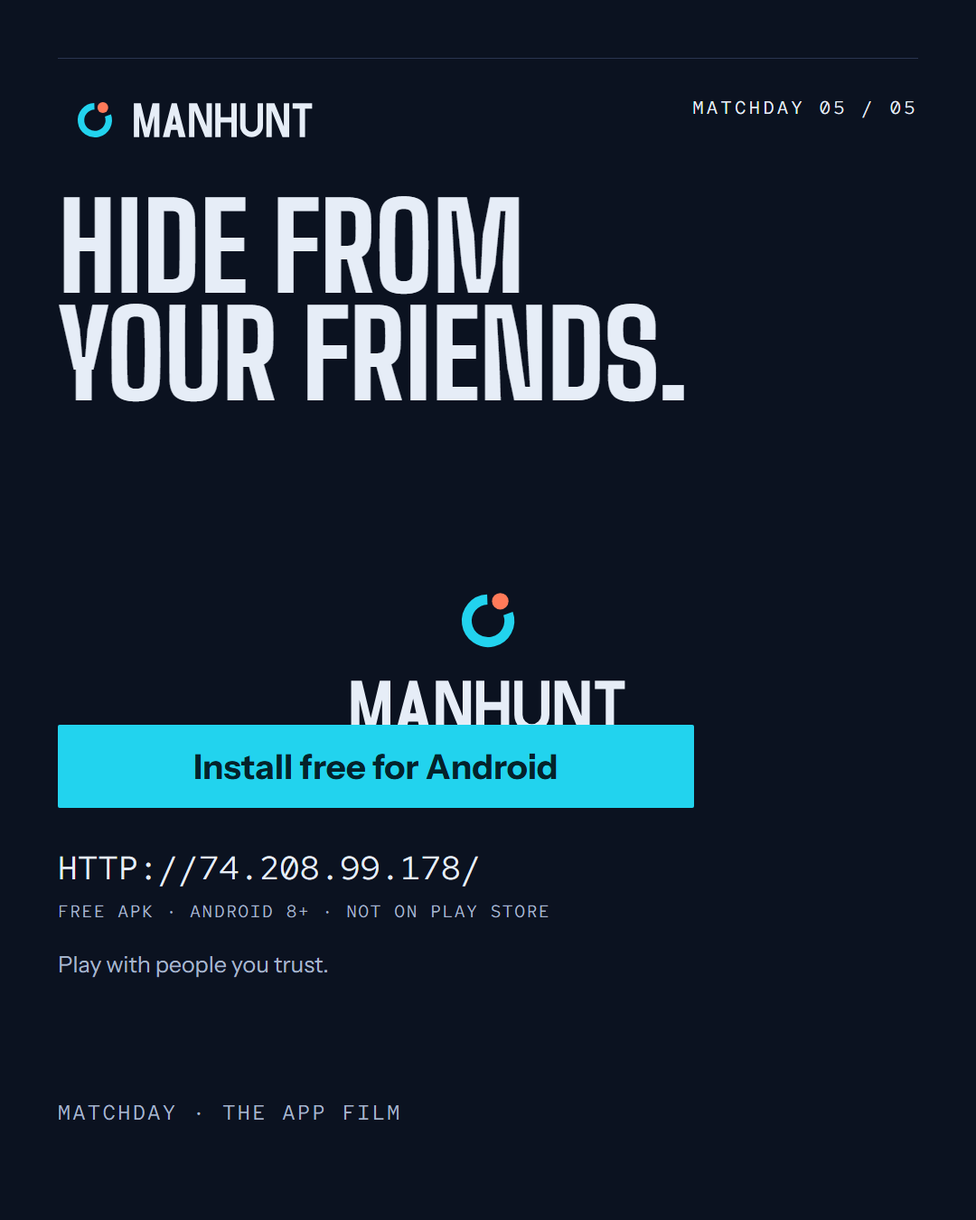
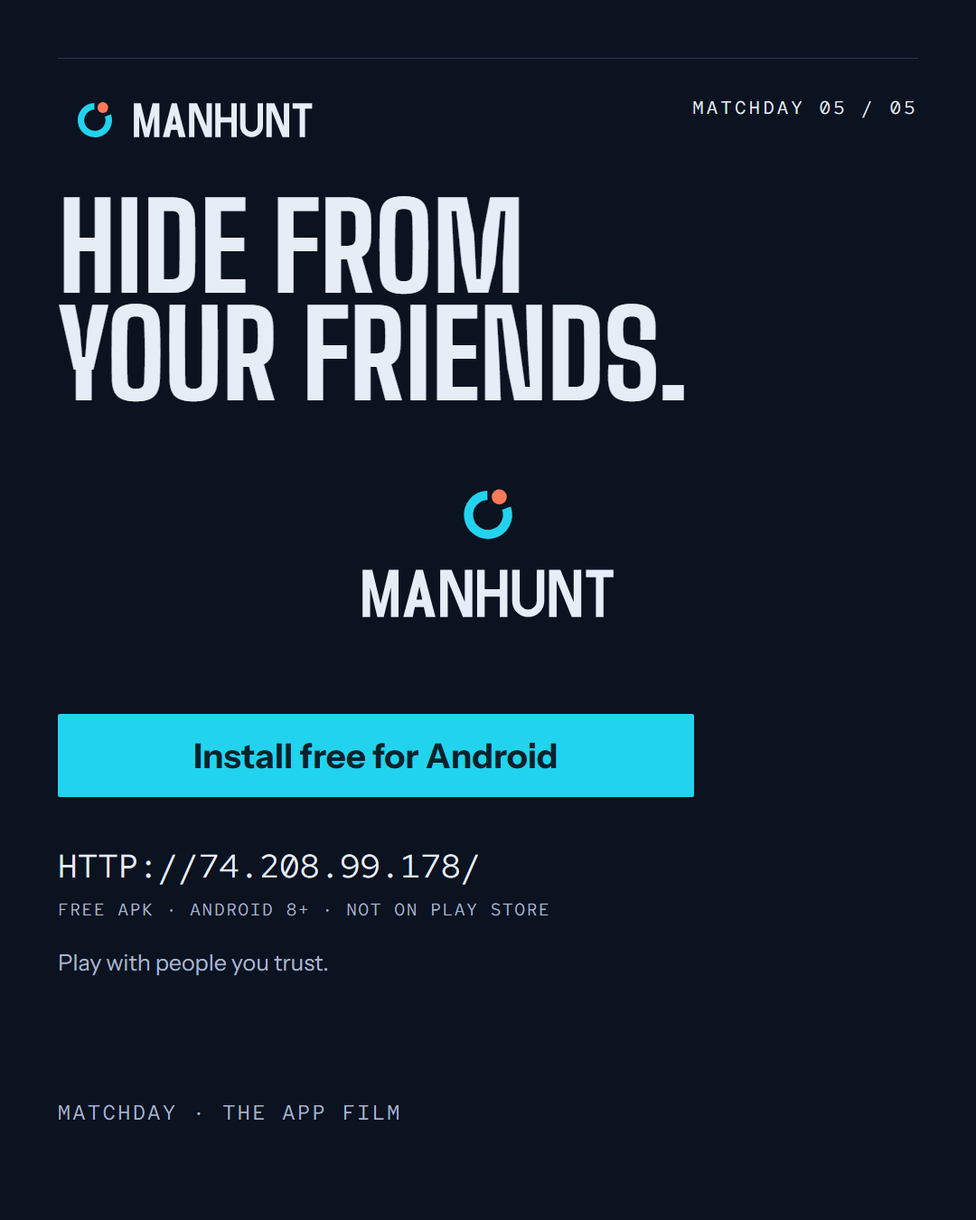
fix(social/site): final composition and evidence cleanup
- Fix carousel end lockup/CTA collision and duplicate-score result feed; check all panels.
- Align README APK size with the site (about 2.3 MB) and keep verifier green.
- Commit refreshed v0.16.1 site QA evidence.
- Final re-audit notes: app/site/GitHub/brand meet the bar; social defects closed.

diff --git a/design/social/matchday/src/statics.css b/design/social/matchday/src/statics.css
@@ -1,4 +1,4 @@
-/* ManHunt MATCHDAY static pack — flat fills, hairlines, no gradients, no shadows. */
+/* ManHunt MATCHDAY static pack — flat fills, hairlines, no gradients, no shadows. */
 @font-face{font-family:"Big Shoulders";src:url("../assets/fonts/BigShoulders-Bold.ttf") format("truetype");font-weight:700;font-display:block}
 @font-face{font-family:"Instrument Sans";src:url("../assets/fonts/InstrumentSans-Regular.ttf") format("truetype");font-weight:400;font-display:block}
 @font-face{font-family:"Instrument Sans";src:url("../assets/fonts/InstrumentSans-Bold.ttf") format("truetype");font-weight:700;font-display:block}
@@ -47,10 +47,10 @@ body{font-family:"Instrument Sans",system-ui,sans-serif;-webkit-font-smoothing:a
 .flowrule{position:absolute;left:64px;top:536px;width:952px}
 .mappanel{left:64px;top:588px;width:952px;height:300px}
 #f1map{object-position:50% 63%}
-.resultline{position:absolute;left:64px;top:222px;font-size:180px;line-height:.86}
-#l-feed1x1b .sub{left:64px;top:424px}
-.resultpanel{left:64px;top:504px;width:952px;height:380px}
-#f2result{object-position:50% 26%}
+.resultline{position:absolute;left:64px;top:214px;font-size:176px;line-height:.86}
+#l-feed1x1b .sub{left:64px;top:404px}
+.boardpanel{left:64px;top:478px;width:952px;height:330px}
+#f2board{object-position:50% 6%}
 
 /* 4:5 portrait */
 #l-portrait4x5{width:1080px;height:1350px}
@@ -105,12 +105,12 @@ body{font-family:"Instrument Sans",system-ui,sans-serif;-webkit-font-smoothing:a
 .cchip{position:absolute;left:64px;top:640px;height:78px;width:952px;display:flex;align-items:center;gap:24px;padding:0 28px;background:var(--field);border-bottom:1px solid var(--hairline)}
 .cchip .display{font-size:46px}
 .cchip .mono{font-size:18px}
-#l-carousel .ctabig{top:802px;bottom:auto}
-#l-carousel .url{top:936px;bottom:auto;font-size:36px}
-#l-carousel .micro{top:996px;bottom:auto;font-size:19px;left:64px}
-#l-carousel .trust{top:1052px;bottom:auto;font-size:25px;left:64px}
+#l-carousel .ctabig{top:790px;bottom:auto}
+#l-carousel .url{top:934px;bottom:auto;font-size:36px}
+#l-carousel .micro{top:994px;bottom:auto;font-size:19px;left:64px}
+#l-carousel .trust{top:1050px;bottom:auto;font-size:25px;left:64px}
 #l-carousel .rule.bottom{bottom:56px}
-.c-endlock{width:360px;left:50%;top:624px;transform:translateX(-50%)}
+.c-endlock{width:330px;left:50%;top:512px;transform:translateX(-50%)}
 
 /* cover */
 #l-cover{width:1080px;height:1920px}

diff --git a/design/social/matchday/src/statics.html b/design/social/matchday/src/statics.html
@@ -30,15 +30,15 @@
     <div class="url mono">http://74.208.99.178/</div>
   </section>
 
-  <!-- ── 1:1 FEED · result ──────────────────────────────────────────────── -->
+  <!-- ── 1:1 FEED · result (board-only composition: one statement) ──────── -->
   <section class="layout" id="l-feed1x1b" data-w="1080" data-h="1080">
     <div class="rule top"></div>
     <img class="lockup lk-h sm" src="../assets/lockup/lockup-horizontal-light-on-dark.svg" alt="ManHunt">
-    <div class="tag mono">FULL TIME · 18:48 PLAYED</div>
+    <div class="tag mono">MATCHDAY · 2026</div>
     <h1 class="display resultline">HUNTERS WIN.</h1>
     <div class="sub mono">PREY REMAINING 0 / 2 · CAPTURED MATCH</div>
-    <div class="panel resultpanel">
-      <div class="panelimg"><img id="f2result" src="../assets/screens/s12-result-hunters.png" alt="Real ManHunt result capture"></div>
+    <div class="panel boardpanel">
+      <div class="panelimg"><img id="f2board" src="../assets/screens/s12-result-hunters.png" alt="Real ManHunt full-time board, real app capture"></div>
     </div>
     <div class="foot mono">FREE APK · ANDROID 8+ · NOT ON PLAY STORE</div>
     <div class="url mono">http://74.208.99.178/</div>

diff --git a/design/github-redesign/preview/readme-preview.html b/design/github-redesign/preview/readme-preview.html
@@ -202,7 +202,7 @@
   <h2 id="get-on-the-field">Get on the field</h2>
   <div class="pass">
     <p class="big">Free, signed APK. No account email. Not on Google Play.</p>
-    <p class="data">Android 8.0+ · about 2.4 MB · latest version, size and SHA-256 on the install page</p>
+    <p class="data">Android 8.0+ · about 2.3 MB · latest version, size and SHA-256 on the install page</p>
     <p><strong><a href="http://74.208.99.178/">Download the free APK</a></strong></p>
     <ol>
       <li><strong>Download the APK</strong> on the Android phone you will play on.</li>

diff --git a/design/audits/final-matchday-audit.md b/design/audits/final-matchday-audit.md
@@ -3,6 +3,8 @@
 Independent adversarial audit of the v0.16.0 "MATCHDAY BOARD" sprint. Read-only: no code/assets changed; this document plus `design/audits/evidence/` are the only additions.
 Date: 2026-11-02 · Repo: `C:\dev\ManHunt` @ `1a2c441` (master, working tree had only in-flight `design/social/matchday/`) · Live: http://74.208.99.178/
 
+> **Re-audit banner (task-60, 2026-11-02 post-cleanup):** the findings below are the first-pass audit; every blocker was re-tested after cleanup — see **“Re-audit — 2026-11-02 (post-cleanup, task-60)”** at the end of this document. Current status: **app captures, live site, GitHub README and brand assets MEET THE BAR; the whole sprint still NEEDS ANOTHER PASS for the social pack only (two composition defects) plus one APK-size copy nit.** All eight original blockers B1–B8 are resolved on the app/site/GitHub surfaces.
+
 **Verdict: NEEDS ANOTHER PASS.** The design direction is genuinely premium and internally consistent, the app captures are real (no mockups), the live site is current, the README is pushed and its assets resolve, and the APK hash claim verifies byte-for-byte. But the "final" evidence set ships a handful of visible defects and one factually wrong product claim: a dev server URL in the flagship auth frame, a visually broken slider in the Settings frame, a clipped expanded sheet, cross-surface clock/code/size drift (41:14 vs 41:12, WNWHA3 vs VMJYBU, 2.2 MB vs 2.48 MB), and "Prey never see the map" — which the app (and the sprint's own prey-view capture S08) contradicts. The new social pack is still landing (only 7 test stills exist) and the committed site QA captures are a release behind the live site. None of these are design-direction problems; they are a focused cleanup + a small reshoot before the sprint can be called complete.
 
 ---
@@ -119,3 +121,76 @@ Committed captures in `design/site-redesign/shots/final/` show **v0.15.1 / 2.1 M
 ## Verdict
 
 **NEEDS ANOTHER PASS — narrow and mechanical, not a redesign.** The MATCHDAY direction itself clears the bar: app screens, site, README and social previews now look like one premium product with a distinct voice (condensed boards, mono data, cyan field, honest sideload story), and the hard, unsexy parts — real device capture, deterministic data, checksummed manifest, served site with correct headers, verified APK hash, pushed README — are done properly. What keeps this from being a final matchday set is execution hygiene at the edges: one banned dev URL, one broken control, one clipped frame, a handful of numbers that disagree between surfaces, a product claim that is simply false, a social pack still rendering, and site evidence one release old. Fix B1–B8 (plus B4's asset regeneration), re-shoot S01/S14/S10 (and ideally S06 alignment + S12 full result), refresh the site evidence set at v0.16.0, land and QA the social reel, then this audit flips to **meets the bar**. I would not hand the current captures/site to a press or partner reviewer yet; I would happily hand them over after that pass.
+
+---
+
+# Re-audit — 2026-11-02 (post-cleanup, task-60)
+
+Second pass after the cleanup sprint (app v0.16.1, commits `08b2ff0` → `83bd4e0`, master pushed). Same method as the first pass; every claim below was re-checked on the current tree, the live server, GitHub, and the regenerated artefact set.
+
+## Verdict (re-audit)
+
+**App captures, live site, GitHub README, brand assets: MEETS THE BAR.**
+**Whole sprint: NEEDS ANOTHER PASS — but this time it is one small, well-defined surface: the new social pack has two visible composition defects, and one APK-size fact still disagrees between README and site.** No previously reported blocker survives on the app/site/GitHub surfaces. If the social pack is held from publication pending owner copy approval (its own COPY-STATUS says it must be), the app/site/README sprint deliverables are signable now.
+
+## B1–B8 status (re-verified)
+
+| Blocker | Status | Evidence |
+|---|---|---|
+| B1 dev URL in S01 | **RESOLVED (by removal)** | `s01-auth.png` gone from `docs/screenshots/premium/`; `MANIFEST.json` `rejected[]` lists it with the exact reason ("manhunt.lvh.me … removed, not substituted"); the only remaining mention of the host in owned docs is that honest rejection note. No re-shot auth frame. |
+| B2 broken settings slider | **RESOLVED in code; frame removed** | v0.16.1 commit `08b2ff0` adds `ui/BoardInputs.kt` `BoardScaleSlider` (single track / one thumb) + `BoardScaleSliderTest.kt`; `SettingsScreen.kt` switched to it; CHANGELOG 0.16.1: "one coherent MATCHDAY slider (single track, one thumb…)". `s14-settings.png` removed, not replaced. |
+| B3 clipped expanded sheet | **RESOLVED in code; frame removed** | `08b2ff0` adds the navigation-bar inset to the expanded hunt sheet (`RoomScreen.kt`, `navigationBarsPadding()` inside the scroll) + CHANGELOG entry; `s10-hunt-sheet.png` removed. |
+| B4 cross-surface facts | **MOSTLY RESOLVED — one residual** | README no longer contains `41:14`, `WNWHA3` or `2.2 MB`; README now reads 41:12 (`README.md:3,58`), VMJYBU (`:58`), "about 2.4 MB" (`:100`). Hero asset regenerated: `docs/brand/matchday-hero-1280x560.png` now shows board **HUNTING 41:12** (verified visually; file hash changed). Live site: 41:12 ×3, VMJYBU, no 41:14. **Residual:** live site + refreshed site evidence print **2.3 MB** (actual APK 2,460,570 B = 2.35 MiB) while README says "about 2.4 MB" → pick one rounding. |
+| B5 false "Prey never see the map" | **RESOLVED** | README now: "Prey see the field, the zone and their own position, never another player's" (`README.md:21`); live site field deck: "Prey see the field and their own position — never another player's."; FAQ: "Prey never see another player's position." Zero occurrences of "never see the map" across README/docs/site. |
+| B6 social pack not landed | **PARTIALLY RESOLVED — landed but not clean** | `design/social/matchday/out/` now contains 15s/30s MP4+WebM, 6s GIF, reel frames, poster, cover, 5-carousel, story (9:16 + end card), 1:1 feed + result feed, QA frames (`out/qa/`), audio scores, contact sheet, `COPY-STATUS.txt`. Real premium captures, OSM credit on map frames, HUNTING/CAPTURED MATCH wording present, no fake claims. **Two visible composition defects remain** (R1/R2) and copy is explicitly "PROVISIONAL — owner approval pending; do not publish". |
+| B7 site QA evidence stale | **RESOLVED** | `design/site-redesign/shots/final/report.json` regenerated 2026-11-02T05:38:49Z; refreshed `mobile-390-viewport.png` shows **v0.16.1 / 2.3 MB** matching live; `report.json` now reports `horizontalOverflow:false`, `blankImages:0`, `smallImages:0` for desktop/tablet/mobile (the previous tablet 3 px text overflow and mobile decorative-SVG flags are gone). Live site itself: v0.16.1, `Content-Type: text/html; charset=utf-8`, CSP / X-Frame-Options / Referrer-Policy intact. |
+| B8 S13 result / MANIFEST contradiction | **RESOLVED** | `MANIFEST.json` now: S13 "Prey win, full time with both Prey alive — honest 2/2 score (no fabricated survivor count)", `dataGaps` notes the earlier "one prey survived" phrasing was wrong and removed. Consistent with the captured screen. |
+
+## What was re-verified as clean
+
+- **Premium set integrity:** 11 captured frames + 7 harvest crops; all SHA-256s re-computed → 0 mismatches. Contact sheet regenerated, shows only the 11 clean frames. `rejected[]` (3 frames with reasons) and `pending[]` (5 frames) are honest; no old-UI substitution. No dev URL, clipped sheet or broken slider remains in the published set.
+- **README/GitHub:** local README blob (`git hash-object`) equals the GitHub contents API blob for `master`; remote `master` = local HEAD `83bd4e0`; latest release `v0.16.1` ships `manhunt-v0.16.1.apk` (2,460,570 B) + `.sha256`. README references only surviving frames (`s03, s05, s07, s12, s08, s09, s11, s15`); removed frames are unreferenced. Alt text now uses canonical 41:12/VMJYBU.
+- **Live site / APK:** v0.16.1, versionCode 44, 2,460,570 B; `/app.apk` downloaded and SHA-256 re-computed = `0596bee7…b56e114de`, exactly the API/page claim. No old slogan, placeholders, dev URLs or mojibake in served HTML.
+- **App v0.16.1:** `versionName 0.16.1` / `versionCode 44`; slider + hunt-sheet inset fixes and their JVM test committed; CHANGELOG entries present. (No new device captures of Settings — the screen is absent from the premium set rather than shown fixed.)
+
+## Remaining issues in the re-audit
+
+**Still blockers (narrow — social publication only)**
+- **R1 — `design/social/matchday/out/manhunt_matchday_carousel-5-end.png`:** the cyan "Install free for Android" button is laid on top of the MANHUNT wordmark — the lower third of the logotype is visibly occluded; the card reads as a z-order/layout collision.
+- **R2 — `design/social/matchday/out/manhunt_matchday_feed-1x1-result.png`:** the result content is duplicated — outer board "HUNTERS WIN. / PREY REMAINING 0 / 2 · CAPTURED MATCH", then a framed inner app capture repeating "Hunters win. / Prey remaining: 0 / 2", cropped mid-radar (only a thin arc of the plate is visible). It reads as a double scoreboard with a bad crop; re-crop the result capture (or drop the inner window) so the card has one clear statement.
+- **R3 (nit) — APK size:** README "about 2.4 MB" vs site/evidence "2.3 MB" (actual 2,460,570 B). Align README to the site formatter or drop the hard number.
+
+**Polish (previously reported; still visible in the 11 surviving frames — frames are unchanged)**
+- **R4 — Status bar shows 3G** on all remaining premium frames while shotlist §0 rule 3 requires "Wi-Fi only, full"; `MANIFEST.statusBar` still documents "clean cellular signal". Re-capture with the demo Wi-Fi state or amend the spec/manifest so the set is internally truthful.
+- **R5 — Clock contradiction in-frame:** masthead live clock 21:05/21:10 vs frozen status-bar 21:04 (visible in S03/S04/S15); hurts the set's own "time progresses plausibly" bar.
+- **R6 — S06 team-selector plates still vertically misaligned** (2 Prey vs 3 Hunters columns) with dead space under the Prey column.
+- **R7 — Hero-map clarity:** no marker legend (coral fresh / white stale) on S07, site hero or social map frames — only alt text explains it.
+- **R8 — Design-system drift inside frames:** hunt dock/sheet pills ("Tag prey", "Hide trails", "View hunt history") vs rectangular Board buttons elsewhere; S07 rounded sheet vs S08/S09 square sheets. S11 still top-anchored (~28 % void); S12/S13 results still lack the spec's final team sheets/honest summary/trail plate.
+- **R9 — Coverage gap after rejection:** premium set no longer evidences Auth (first screen), expanded hunt sheet, or Settings. v0.16.1 makes S14 re-shootable, and S01 needs only a collapsed/public server row — worth re-capturing if the set is used as a press kit; MANIFEST is honest about the omission either way.
+- **R10 — GitHub custom social preview still unset:** `og:image` is GitHub's generated `opengraph.githubassets.com` card, not `docs/brand/github-social-matchday-1280x640.png` (repo-settings upload only; can't be fixed in a commit).
+- **R11 — `docs/brand/README.md` still mixes v1 assets** (`readme-hero.gif`, old `github-social-1280x640.png`, old identity/banner contact sheets) with MATCHDAY v2 without a legacy marker; copy still labelled "provisional pending final sign-off". The site footer links to this page.
+- **R12 — site mobile nit:** hero meta still wraps with a leading separator ("… Android 8.0+ / | Not on Play Store"); homepage stat "9 accounts started" is honest but weak social proof for launch.
+
+## Re-audit surface scores
+
+| Surface | Before | Now | Note |
+|---|---|---|---|
+| Premium app captures | 3/5 | **4/5** | Clean contracted set, honest manifest, hashes verify; loses a point for residual spec deviations (3G/clock) and lost auth/settings coverage. |
+| Live game site | 4/5 | **5/5** | v0.16.1, accurate copy, current evidence, verified APK SHA, good headers; only mobile-meta nits remain. |
+| GitHub README / repo | 3/5 | **4/5** | Canonical facts fixed, synced with GitHub, assets resolve, release v0.16.1; untouched OG card + size nit. |
+| Brand assets | 3/5 | **4/5** | Hero rebuilt to 41:12, map band and tags intact; legacy v1 assets still mixed into `docs/brand/README.md`. |
+| Social MATCHDAY pack | 2/5 (not landed) | **3/5** | Now landed, full format set, on-brand, real captures, no fake claims — but two visible composition defects and provisional copy block publication. |
+| Spec vs captures | 3/5 | **3/5** | Rejections handled honestly; residual 3G/clock/S12-scope deviations persist in unchanged frames. |
+| Cross-surface coherence | 3/5 | **4/5** | 41:12 / VMJYBU / visibility copy now agree everywhere; only APK size rounding disagrees. |
+| Honesty & trust | 3/5 | **5/5** | Rejected frames documented with reasons, S13 corrected, site/FAQ/README accurate, provisional social copy disclosed, SHA verified. |
+
+**Weighted overall: 4/5 — the redesign now reads as premium and coherent across app, site, GitHub and brand. One publishable surface (the social pack) still has two visible composition bugs and one copy number (APK size) needs to agree; after those, this sprint is done.**
+
+## Exact re-audit evidence (re-runnable)
+
+- Premium: `docs/screenshots/premium/{MANIFEST.json,contact-sheet.png,s03,s04,s05,s06,s07,s08,s09,s11,s12,s13,s15}`; all SHA-256s re-computed 2026-11-02 (~06:15Z) → 11/11 images + 7/7 crops OK.
[1 lines of base64/hex data omitted]
+- GitHub: `git ls-remote origin master` = local HEAD `83bd4e0`; contents API README blob `b755e055…` = local `git hash-object README.md`; release `v0.16.1` assets = APK + sha256.
+- Site evidence: `design/site-redesign/shots/final/report.json` generatedAt `2026-11-02T05:38:49Z`, desktop/tablet/mobile all `overflow:false / blanks:0 / small:0`; refreshed `mobile-390-viewport.png` shows v0.16.1 · 2.3 MB.
+- App fixes: `git show 08b2ff0` (`BoardInputs.kt`, `BoardScaleSliderTest.kt`, `RoomScreen.kt` navigationBarsPadding, `SettingsScreen.kt`); CHANGELOG `[0.16.1]`.
+- Social: `design/social/matchday/out/` (reels/carousel/story/feed/QA/contact sheet/`COPY-STATUS.txt`), reviewed contact sheet + cover, carousel 04-hunt and 05-end, feed result, reel30 frame.

diff --git a/design/site-redesign/refs/rendered/qa-report.md b/design/site-redesign/refs/rendered/qa-report.md
@@ -1,56 +1,59 @@
-# ManHunt site — QA evidence (task-57 refresh)
+# ManHunt site — QA evidence (task-61 refresh, live v0.16.1)
 
-**Captured:** 2026-11-02T05:38:49Z · against the current **v0.16.0** manifest
-(`versionName 0.16.0`, size **2.4 MB**, published **2026-11-02**, SHA-256
[1 lines of base64/hex data omitted]
-**Target:** the page served by the repo's own Fastify server on an isolated port
-(`127.0.0.1:8095`, temp DB; production untouched), i.e. the current page content — not the old
-v0.15.1 capture set.
+**Captured:** 2026-11-02T06:13:06Z (UTC) · **target:** the live install page at
+**http://74.208.99.178/** — the current production content, **v0.16.1** (manifest `versionCode 44`,
+APK **2,460,570 B**, published **2026-11-02T06:10:25Z**, SHA-256
[1 lines of base64/hex data omitted]
+
+The page renders that manifest dynamically: **v0.16.1 · 2.3 MB · 2026-11-02**, hash `0596bee7…114de`,
+and “This server http://74.208.99.178”. (The page formats the APK with one binary-decimal digit:
+2,460,570 B / 1,048,576 = 2.35 → **2.3 MB**; no code change, this is the existing `formatBytes`
+contract.)
 
 ## Method
 
-`node design/site-redesign/tools/capture.mjs --url http://127.0.0.1:8095/ --out design/site-redesign/shots/final`
+`node design/site-redesign/tools/capture.mjs --url http://74.208.99.178/ --out design/site-redesign/shots/final`
 
-Real headless Chrome via the DevTools Protocol (no Puppeteer, no mockups): true mobile emulation for
-390 (Android UA + touch + DPR 2), 820 tablet and 1440 desktop viewports. The harness writes viewport
+Real headless Chrome via the DevTools Protocol (no Puppeteer, no mockups, no compositing): desktop
+1440×900 (DPR 1), tablet 820×1180 (DPR 1), mobile 390×844 with **true device emulation** (Android UA +
+touch + DPR 2), plus 320×700 and `prefers-reduced-motion: reduce` runs. The harness writes viewport
 PNGs, full-page PNGs, half-scale overviews, per-section PNGs (`data-shot`) and `report.json` with
 overflow/blank-image/console/network diagnostics.
 
-## Result — v0.16.0 page
+## Result — live v0.16.1 page
 
 | Viewport | Doc width | Content height | Horizontal overflow | Off-canvas elements | Text overflow | Blank images | Console errors | Failed requests |
 |---|---:|---:|---|---:|---:|---:|---:|---:|
 | 1440 desktop | 1440 | 7250 px | false | 0 | 0 | 0 | 0 | 0 |
 | 820 tablet | 820 | 9118 px | false | 0 | 0 | 0 | 0 | 0 |
 | 390 mobile (device emulation, DPR 2) | 390 | 9675 px | false | 0 | 0 | 0 | 0 | 0 |
+| 320 × 700 (robustness) | 320 | — | false | 0 | 0 | 0 | 0 | 0 |
+| 1440 reduced-motion | 1440 | — | false | 0 | 0 | 0 | 0 | 0 |
 
-Also re-run clean: `320 × 700` (no horizontal overflow) and `prefers-reduced-motion: reduce`
-(complete static poster, no animation).
+No visual regression against the v0.16.0 evidence: same layout heights (7250 / 9118 / 9675 px), same
+composition, zero overflow/clipping/blank assets/console/network errors.
 
-## Accuracy checks in the captured page
+## Accuracy checks on the captured page
 
-- "Prey never see the map" — **absent** (the previous false claim).
-- Field deck present: “Prey see the field and their own position — never another player's.”
-- Rules ledger present: “Prey see the field, the zone and their own position, never another player's.”
-- FAQ present: “Prey never see another player's position”.
-- Dynamic values present: **v0.16.0**, **2.4 MB**, **2026-11-02**, server line from the request host.
-
-## B7 fixes verified in these captures
-
-- The former tablet/mobile `LATEST REPORT` legend-label overflow (`scroll 107 > client 104`) is gone
-  (`overflowTextEls: []`); the legend label column is 112 px.
-- The former mobile off-canvas decorative SVG circles are gone (`overflowElements: []`); the mobile
-  field band is 16:9 full-bleed so every zone ring/marker stays inside the frame.
+- Accurate field-visibility copy is present three times:
+  “Prey see the field and their own position — never another player's.” (field deck),
+  “Prey see the field, the zone and their own position, never another player's.” (rules ledger),
+  “Prey never see another player's position…” (FAQ).
+- The old false claims are **absent**: “Prey never see the map”, “Prey never see positions”,
+  “Prey never see locations” all return 0 matches.
+- Dynamic values present and matching the manifest: v0.16.1, 2.3 MB (2,460,570 B), 2026-11-02,
+  0596bee7…114de, server line http://74.208.99.178.
 
 ## Artifact locations
 
-- Full untracked capture artifacts (gitignored by `design/.gitignore` → `site-redesign/shots/`):
-  `design/site-redesign/shots/final/` — `desktop-1440-*`, `tablet-820-*`, `mobile-390-*` viewport,
-  full-page, half-page and section PNGs, plus `report.json`.
-- Tracked evidence (committed with the design work): `design/site-redesign/refs/rendered/`
-  (`site-desktop-1440-viewport.png`, `site-desktop-1440-full.png`, `site-tablet-820-full.png`,
+- Full capture artifacts (gitignored by `design/.gitignore` → `site-redesign/shots/`):
+  `design/site-redesign/shots/final/` — desktop-1440, tablet-820 and mobile-390 viewport + full-page +
+  half-scale + per-section PNGs and `report.json`;
+  `design/site-redesign/shots/xs/` (320 px) and `design/site-redesign/shots/reduced/`
+  (prefers-reduced-motion).
+- Committed evidence (tracked): `design/site-redesign/refs/rendered/` —
+  `site-desktop-1440-viewport.png`, `site-desktop-1440-full.png`, `site-tablet-820-full.png`,
   `site-mobile-390-viewport.png`, `site-mobile-390-full.png`, `site-desktop-reduced-motion.png`,
-  `direction-board.png`).
-- Server/type tests: `cd server && node node_modules/typescript/bin/tsc --noEmit && npm test` —
-  **73/73 pass**, typecheck clean (install-page suite includes the accurate-copy regression guards
-  and the no-script / no-remote-assets / manifest guards).
+  `direction-board.png` (re-rendered from the v0.16.1 captures), and this report.
+- Verification: page code unchanged; `cd server && node node_modules/typescript/bin/tsc --noEmit &&
+  npm test` re-run — **73/73 tests pass, typecheck clean**.

diff --git a/design/site-redesign/README.md b/design/site-redesign/README.md
@@ -1,11 +1,11 @@
-# ManHunt — site redesign (task-50)
+# ManHunt — site redesign (task-50)
 
 A from-scratch redesign of the game site (`/` — the landing + install page) as a premium
 field-sport/street editorial page. Direction: **NIGHT FIXTURE**, the matchday programme for a
 borrowed field; sibling of the approved app direction **MATCHDAY BOARD**.
 
 **Status:** implemented in `server/src/app.ts`; typecheck + full server test suite green; verified in
-real headless Chrome at 1440/820/390 against the current **v0.16.0** manifest. **Final accepted
+real headless Chrome at 1440/820/390 against the **live v0.16.1** page. **Final accepted
 premium set integrated:** the screens section shows five real captures — `s07-hunt` (live map),
 `s03-home`, `s05-lobby-host`, `s11-chat`, `s12-result-hunters` (full-time result) — and the hero +
 field-band map plates are built from the premium OSM harvest. **No placeholders remain on the page.**
@@ -27,7 +27,7 @@ field section no longer claims "Prey never see the map"; the real visibility mod
 | [`refs/site-ref.html`](refs/site-ref.html) | **The design source of truth.** Standalone HTML/CSS of the whole page with relative asset paths. Edit design here, then regenerate the renderer. |
 | [`refs/rendered/`](refs/rendered/) | Rendered evidence: direction board, desktop/tablet/mobile page renders, and [`qa-report.md`](refs/rendered/qa-report.md) — the committed QA summary for the v0.16.0 capture (results, accuracy checks, provenance). |
 | [`board.html`](board.html) | The direction plate (rendered → `refs/rendered/direction-board.png`). |
-| [`shots/`](shots/) | Gitignored capture runs: `before/` (old page), `final/` (v0.16.0 page, last run), `reduced/` (prefers-reduced-motion), `xs/` (320 px robustness), `board/` (direction plate render). Full PNGs + `report.json` live here; the tracked summary is `refs/rendered/qa-report.md`. |
+| [`shots/`](shots/) | Gitignored capture runs: `before/` (old page), `final/` (live v0.16.1 page, last run), `reduced/` (prefers-reduced-motion), `xs/` (320 px robustness), `board/` (direction plate render). Full PNGs + `report.json` live here; the tracked summary is `refs/rendered/qa-report.md`. |
 
 ---
 
@@ -159,26 +159,26 @@ not come back.
 **16:9** full-bleed, keeping every decorative ring/marker inside the frame. The refreshed
 `report.json` is clean at all three viewports: `overflowElements: []`, `overflowTextEls: []`.
 
-**Evidence (v0.16.0):** `design/site-redesign/shots/final/` (viewport + full-page + per-section PNGs
-and `report.json`, captured against the v0.16.0 manifest: version 0.16.0, 2.4 MB, 2026-11-02), plus
+**Evidence (live v0.16.1):** `design/site-redesign/shots/final/` (viewport + full-page + per-section PNGs
+and `report.json`, captured against http://74.208.99.178/: version 0.16.1, 2,460,570 B displayed as 2.3 MB, 2026-11-02), plus
 `shots/reduced/`, `shots/xs/`, `shots/board/`; page renders mirrored in `refs/rendered/`.
 
 ---
 
-## Evidence summary (last verified run: `shots/final/`, against **v0.16.0**)
+## Evidence summary (last verified run: `shots/final/`, against the **live v0.16.1** page)
 
 | Check | Result |
 |---|---|
 | `npx tsc --noEmit` (server) | clean |
 | `npm test` (server) | **73/73 pass** — install-page suite covers the new IA, accurate field-visibility copy (with regression guards against the old "Prey never see the map" claim), no scripts, no remote assets, media/font allowlist, manifest values, no-manifest fallback, zero-account state, CSP `font-src 'self'` |
-| Live page content | dynamic manifest values rendered: **v0.16.0**, **2.4 MB**, published **2026-11-02**, SHA-256 `df6756…4ea4`, server line from the request host |
+| Live page content | captured from **http://74.208.99.178/**; dynamic manifest values rendered: **v0.16.1** (versionCode 44), **2,460,570 B → 2.3 MB**, published **2026-11-02**, SHA-256 `0596bee7…114de`, server line `http://74.208.99.178` |
 | 1440 desktop | `horizontalOverflow: false`, `overflowElements: []`, `overflowTextEls: []`, `blankImages: []`, `consoleErrors: []`, `failedRequests: []` |
 | 820 tablet | same (the former "Latest report" label overflow is fixed by the 112 px legend label column) |
 | 390 mobile (real Chrome device emulation: Android UA + touch + DPR 2) | same (the former off-canvas band circles are fixed by the 16:9 full-bleed band crop) |
 | 320 × 700 extra-small | no horizontal overflow (layout reflows; used as a robustness check, not a required viewport) |
 | `prefers-reduced-motion: reduce` | hero map + slogan render as a complete static poster; no animation runs |
 | Copy accuracy (audit B5) | field deck, rules ledger and FAQ now state the real visibility model: everyone sees the field/zone/own position; only Hunters receive the Prey's latest reports and trails; no one sees another player's position |
-| Page payload | **62.7 KB HTML** (all CSS inline), 51 KB fonts, **396 KB total** of referenced WebP images + fonts (hero map 55 KB, band 24 KB, five captures 265 KB, film cover 38 KB). No JS. |
+| Page payload | **62.6 KB HTML** (all CSS inline), 51 KB fonts, **396 KB total** of referenced WebP images + fonts (hero map 55 KB, band 24 KB, five captures 265 KB, film cover 38 KB). No JS. |
 | Screens | five real premium captures — `s07-hunt` (first, key showcase), `s03-home`, `s05-lobby-host`, `s11-chat`, `s12-result-hunters` (full-time, 18:48, "Hunters win.", prey 0/2) — in a staggered 5-up rail (`screens--5`), real 1080×2400 frames, clean status bar, seeded players (Yasmin/Leila/Omar/Tariq/Sara), room `VMJYBU`, live clock 41:12. **No placeholder remains**; the Prey-win result, settings and light-theme captures are available but unused (swap via the `SCREENS` list). |
 
 ### Changing the capture set (one data edit)

diff --git a/design/social/matchday/verification.md b/design/social/matchday/verification.md
@@ -84,6 +84,11 @@ Key film beats downscaled to 390 px wide (`out/qa/phone-*.png`): hook, home, lob
 5. Optional brand suggestions adopted: chat microcopy `IN-GAME CHAT · CAPTURED MATCH`; hook #4 `The map is the field.`; hook #5 uses the approved mode line `Two teams. One block. One clock.`
 6. Re-rendered after the fixes: 15 s MP4/WebM, 30 s MP4 (chat microcopy re-rendered separately), GIF, all statics, contact sheet; re-verified durations/decode/GIF/PNG dims and the changed frames (`out/qa/15-hunt.png`, `out/qa/15-hook.png`, `out/qa/30-chat.png`, feed/story/carousel statics).
 7. **Result-static consistency (last string):** 1:1 result meta is `PREY REMAINING 0 / 2 · CAPTURED MATCH` (same phrasing as the chat beat; no surface says "real match" any more). Re-rendered `manhunt_matchday_feed-1x1-result.png` (1080×1080) and the contact sheet (1600×2400); re-checked dimensions. Only that static + contact sheet changed — video encodes untouched and still decode clean.
+8. **Lead re-audit — social composition fixes (no video re-encode):**
+   - `carousel-5-end`: the cyan Install button was overlapping the stacked MANHUNT lockup. Re-laid out with vertical separation — headline ends ~452 px, stacked lockup 512–709, CTA 790–882, URL/micro/trust 934/994/1050, slide label at the foot. No text or lockup collision.
+   - `feed-1x1-result`: was repeating the result (board headline + a framed inner capture that repeated the score and cropped mid-radar). Rebuilt as a **board-only composition**: one statement (`HUNTERS WIN.`), the real full-time board data in a single plate (`FULL TIME`, `18:48 played`, `PREY 0 / 2 · HUNTERS`, status bar cropped out), no duplicated winner word, no radar crop.
+   - Collision sweep of the other panels: carousel 1/2/3/4, feed-1x1, portrait-4x5, story-9x16, story-end, cover and contact sheet checked for overlaps — none found.
+   - Re-rendered only `manhunt_matchday_feed-1x1-result.png`, `manhunt_matchday_carousel-5-end.png` and `manhunt_matchday_contact-sheet.png`; video encodes untouched (15 s / 30 s MP4 still decode exit 0); dimensions re-verified (1080×1080 / 1080×1350 / 1600×2400).
 
 ## 8. Safety / workflow
 

diff --git a/design/github-redesign/VERIFICATION.md b/design/github-redesign/VERIFICATION.md
@@ -1,6 +1,6 @@
 # GitHub landing page v2 — verification (final)
 
-Generated 2026-11-02T05:40:02.720Z · Node v24.22.1 · 65/65 checks pass, 0 fail, 0 pending.
+Generated 2026-11-02T06:16:28.079Z · Node v24.22.1 · 65/65 checks pass, 0 fail, 0 pending.
 
 **Result: all implemented checks pass**
 
@@ -53,7 +53,7 @@ Generated 2026-11-02T05:40:02.720Z · Node v24.22.1 · 65/65 checks pass, 0 fail
 | PASS | README.md: no placeholder strings |  |
 | PASS | README.md: canonical clock 41:12 |  |
 | PASS | README.md: canonical lobby code VMJYBU |  |
-| PASS | README.md: canonical APK size 2.4 MB |  |
+| PASS | README.md: canonical APK size 2.3 MB |  |
 | PASS | README.md: accurate Prey visibility claim |  |
 | PASS | README.md: rejected premium frames not referenced |  |
 | PASS | README.md: uses only premium app captures (no old CI screenshot set) |  |

diff --git a/design/github-redesign/README.draft.md b/design/github-redesign/README.draft.md
@@ -112,7 +112,7 @@ an argument about the clock or a tag has an answer.</sub>
 
 ## Get on the field
 
-> **Free, signed APK. No account email. Not on Google Play.** Android 8.0+ · about 2.4 MB · the current
+> **Free, signed APK. No account email. Not on Google Play.** Android 8.0+ · about 2.3 MB · the current
 > version, size and SHA-256 are always on the install page.
 
 **[Download the free APK](http://74.208.99.178/)**

diff --git a/README.md b/README.md
@@ -97,7 +97,7 @@ an argument about the clock or a tag has an answer.</sub>
 
 ## Get on the field
 
-> **Free, signed APK. No account email. Not on Google Play.** Android 8.0+ · about 2.4 MB · the current
+> **Free, signed APK. No account email. Not on Google Play.** Android 8.0+ · about 2.3 MB · the current
 > version, size and SHA-256 are always on the install page.
 
 **[Download the free APK](http://74.208.99.178/)**
